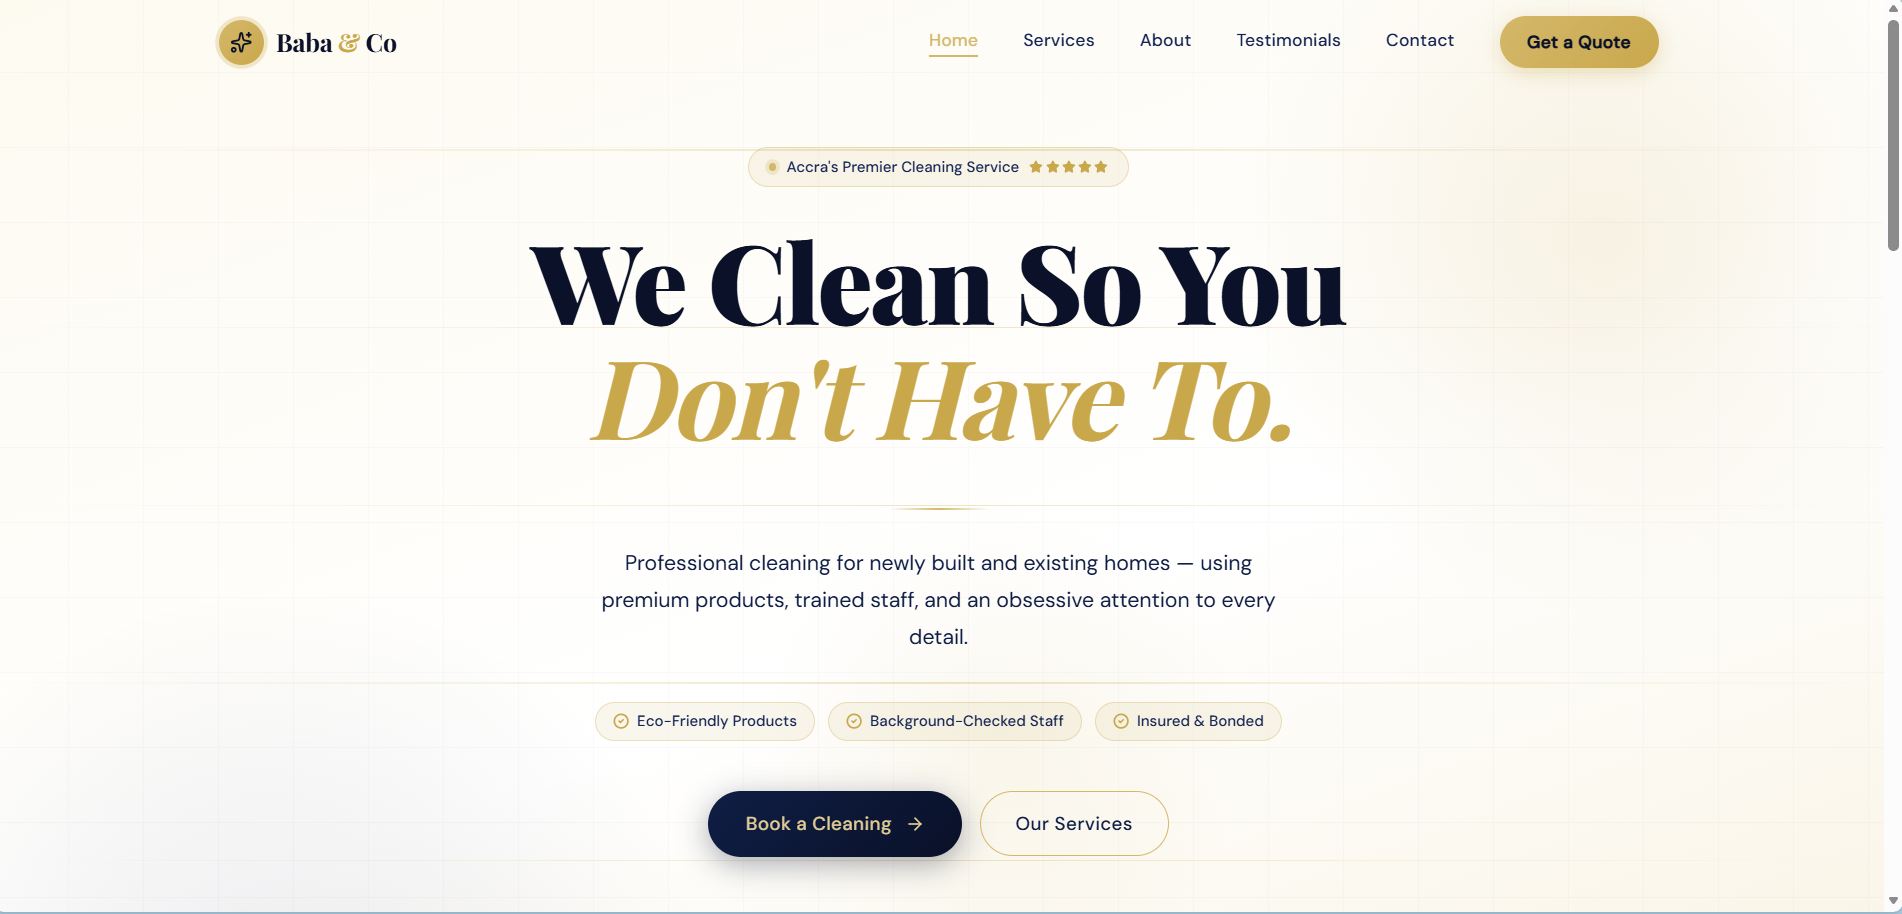
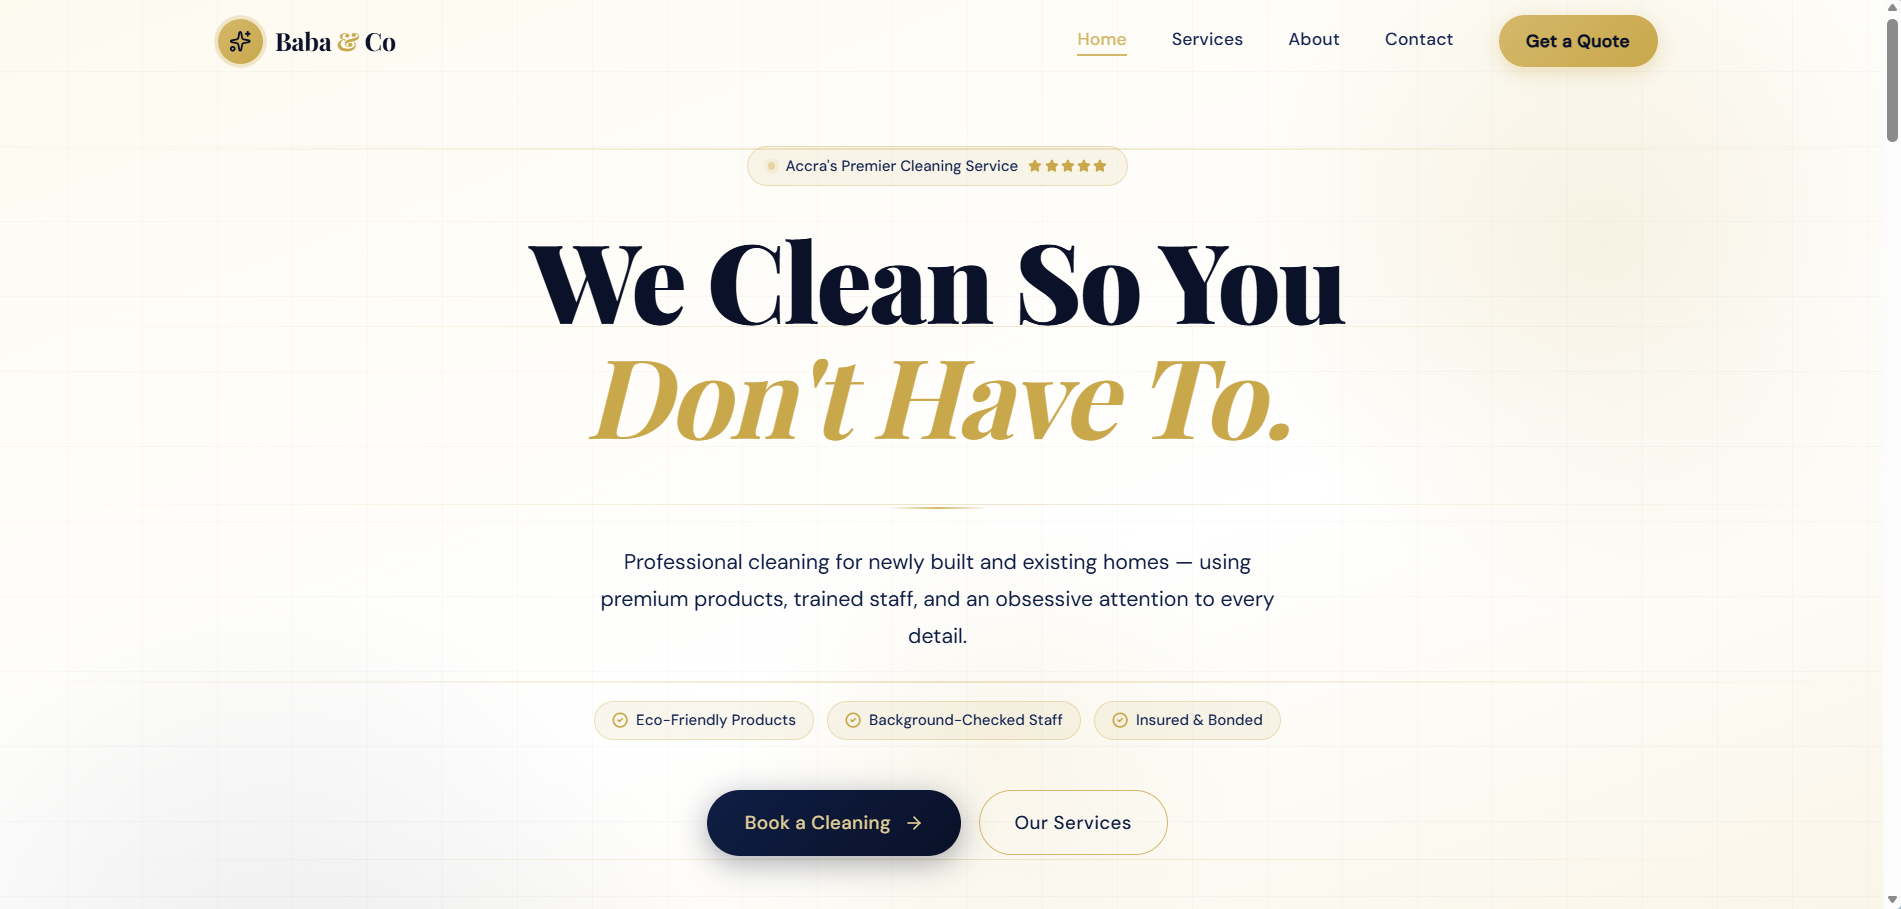
Add new caseStudy for new project(cleaning-agency) and update new hero image in babacocasestudy

diff --git a/src/case-studies/BabaCoCaseStudy.jsx b/src/case-studies/BabaCoCaseStudy.jsx
@@ -1,0 +1,134 @@
+import CaseStudyTemplate from "../components/CaseStudyTemplate";
+
+const data = {
+  meta: {
+    title: "Baba & Co Cleaning Agency",
+    titleLine1: "Baba & Co",
+    titleLine2: "Cleaning Agency",
+    image: "/images/project-2.png",
+    summary:
+      "A full production website for a premium cleaning agency — React SPA with multi-page routing, a fully validated booking system powered by EmailJS, and a polished design system built from scratch in vanilla CSS.",
+    stats: [
+      { label: "Frontend",    value: "React + Vite" },
+      { label: "Routing",     value: "React Router v6" },
+      { label: "Animations",  value: "Framer Motion" },
+      { label: "Backend",     value: "EmailJS (serverless)" },
+    ],
+  },
+
+  overview: {
+    problem:
+      "The client needed a professional online presence that felt premium — not a template. The business model requires a site-visit before pricing, so the booking flow had to communicate that clearly without losing conversion. It also needed to work seamlessly across all devices without a backend to maintain.",
+    goal:
+      "Design and build a multi-page React site that matches a luxury cleaning brand — navy and gold design system, Playfair Display + DM Sans typography — with a real booking flow that captures client details via EmailJS and routes them directly to the business owner's inbox.",
+    phases: [
+      { phase: "Phase 1", title: "Design System & CSS Architecture", desc: "Established CSS custom properties for the navy/gold palette, typography scale, spacing tokens, and border-radius system. All components built with vanilla CSS — no utility framework." },
+      { phase: "Phase 2", title: "Home Page & Component Library", desc: "Built Hero, Services grid, Why Us, Testimonials carousel, and CTA banner as standalone components. Framer Motion scroll animations and staggered reveals throughout." },
+      { phase: "Phase 3", title: "Multi-page Routing", desc: "Migrated from a single-page anchor scroll to React Router v6. Navbar rebuilt with useLocation and useNavigate to handle both page transitions and anchor-scroll fallbacks." },
+      { phase: "Phase 4", title: "Services & Booking System", desc: "Full ServicesPage with six expandable service detail sections, FAQs, and a booking modal. EmailJS integrated for serverless form submission — no backend required." },
+      { phase: "Phase 5", title: "About, Contact & Footer", desc: "About page with company story, team section, values grid and timeline. Contact page with validated enquiry form. Footer with brand quote, quick links, service links, and social buttons." },
+    ],
+  },
+
+  techStack: {
+    groups: [
+      {
+        category: "Frontend", color: "sky",
+        items: [
+          { name: "React 18",           desc: "Component architecture with hooks for all state, side effects, and lifecycle management" },
+          { name: "Vite",               desc: "Dev server and build tool — fast HMR and optimised production bundles" },
+          { name: "React Router v6",    desc: "Client-side routing with programmatic navigation, location awareness, and anchor-scroll coordination" },
+          { name: "Framer Motion",      desc: "Page entry animations, scroll-triggered reveals, staggered card entrances, and the booking modal overlay" },
+          { name: "Vanilla CSS",        desc: "Custom design system built with CSS custom properties — full control over every detail without a utility framework" },
+        ],
+      },
+      {
+        category: "Integrations", color: "emerald",
+        items: [
+          { name: "EmailJS",            desc: "Serverless email delivery — booking requests and contact form submissions land in the client's inbox with zero backend" },
+          { name: "Lucide React",       desc: "Consistent icon system used across nav, service cards, form fields, and trust badges" },
+          { name: "Google Fonts",       desc: "Playfair Display (serif headings) and DM Sans (body) — loaded via CSS @import for the brand's luxury feel" },
+        ],
+      },
+      {
+        category: "Architecture", color: "amber",
+        items: [
+          { name: "CSS Custom Properties", desc: "Full design token system: 6 navy shades, 6 gold shades, 5 radius values, two font stacks — all in :root" },
+          { name: "Component Composition", desc: "Shared components (BookingModal, Navbar, Footer) used across all pages — single source of truth" },
+          { name: "Serverless Form Layer", desc: "EmailJS removes the need for any server. Booking data is validated client-side then delivered as a formatted email" },
+        ],
+      },
+    ],
+    architecture: [
+      { label: "Browser",    sub: "React + Vite",        icon: "devices",   color: "sky" },
+      { label: "→",          sub: "React Router",         icon: null },
+      { label: "Pages",      sub: "Home · Services · About · Contact", icon: "article", color: "emerald" },
+      { label: "→",          sub: "EmailJS SDK",           icon: null },
+      { label: "Inbox",      sub: "Client Email",          icon: "mail",     color: "amber" },
+    ],
+  },
+
+  challenges: [
+    {
+      title: "Booking Modal Drifting to Bottom-Right Corner",
+      problem:
+        "After integrating Framer Motion's AnimatePresence on the booking modal, it stopped centering and instead appeared pinned to the bottom-right of the screen — even though the CSS clearly had position: fixed, top: 50%, left: 50% with transform: translate(-50%, -50%).",
+      discovery:
+        "Framer Motion writes its own inline transform style to drive the animation (y: 40, scale: 0.97 on entry). This inline transform completely overrides the CSS transform: translate(-50%, -50%) that was doing the centering. The modal's centering transform gets clobbered before it can take effect, so the element sits at its natural position: top-left of the 50%/50% anchor — which is the bottom-right area of the screen.",
+      solution:
+        "Removed the transform-based centering entirely from .booking-modal. Instead, wrapped it in a .booking-modal-wrap — a fixed, full-viewport flex container that centers its child with align-items: center + justify-content: center. Framer Motion now only controls the child element's y and scale, with no conflict. The backdrop click-to-close behavior was preserved by keeping the backdrop as a separate fixed element underneath.",
+      tag: "Animation Bug", tagColor: "rose",
+    },
+    {
+      title: "Navbar Breaking on Anchor Links After Page Navigation",
+      problem:
+        "Clicking 'Testimonials' or 'Contact' from the Services or About pages would navigate back to the home page, but the scroll-to-anchor never triggered. The page loaded at the top and stayed there.",
+      discovery:
+        "The setTimeout(scrollIntoView, 300) approach assumed the target element would be in the DOM 300ms after navigate() was called. But React Router's navigation and component mounting isn't always that fast, especially on lower-end devices or when components have heavy initial renders. The element simply wasn't mounted yet when scrollIntoView fired.",
+      solution:
+        "Kept the setTimeout but made the delay more conservative (400ms) and added a null-check: document.querySelector(anchor)?.scrollIntoView(...). On slower devices this is still not perfectly reliable, so the proper long-term fix is a useEffect in the home page that watches for a location.state.scrollTo value passed via navigate(), then scrolls after mount. Documented this as a known improvement.",
+      tag: "Routing", tagColor: "sky",
+    },
+    {
+      title: "CSS services-label Selector Conflict",
+      problem:
+        "The .services-label class was defined twice in the CSS file with different display values — once as display: inline-block (from the original homepage) and once as display: inline-flex (for the ServicesPage redesign with the line dividers). On the Services page, the lines weren't appearing.",
+      discovery:
+        "The second definition in the file was winning due to cascade order, but the inline-flex version expected two .services-label-line child elements inside the label. The homepage version didn't have those children, so there was no visual bug there. But on the Services page, the label was getting the inline-block style from higher up in the file, collapsing the flex layout.",
+      solution:
+        "Audited the full CSS file for duplicate class definitions. Removed the redundant inline-block version and kept only the inline-flex one, which worked correctly for both usages. Added a comment block marking the 'Services Page overrides' section to prevent this category of conflict on future edits.",
+      tag: "CSS Cascade", tagColor: "amber",
+    },
+  ],
+
+  features: [
+    { icon: "calendar_month",  title: "Smart Booking Modal",       desc: "Full booking form with client-side validation, service pre-selection when clicking 'Book This Service' on a specific card, EmailJS delivery, and a success/error state flow." },
+    { icon: "layers",          title: "Six In-Depth Service Pages", desc: "Each service has a full written breakdown, what's included checklist, ideal-for tags, duration, expandable FAQs, and a sticky aside panel — all on a single scrollable Services page." },
+    { icon: "route",           title: "Multi-page SPA Routing",     desc: "React Router v6 with page-level routes for Home, Services, About, and Contact. Anchor scroll links (Testimonials, Contact) work correctly from any page." },
+    { icon: "auto_awesome",    title: "Scroll-Triggered Animations", desc: "Framer Motion powers staggered card reveals, fade-up section entries, and the process step sequence. All animations respect viewport entry and only fire once." },
+    { icon: "mail",            title: "Contact & Booking via Email", desc: "Two separate EmailJS templates — one for booking requests (8 fields), one for general contact. Both include validation, loading state, and formatted email delivery." },
+    { icon: "design_services", title: "Custom CSS Design System",   desc: "Navy 950–500 and gold 50–500 scales, two font families, five radius tokens, and reusable component classes — zero dependency on Tailwind or any CSS framework." },
+  ],
+
+  learnings: [
+    "CSS transforms are not composable with Framer Motion's inline styles. Any element Framer animates with a transform-based motion value must be centered by layout (flexbox, grid) rather than by its own transform — or the centering will be overwritten during the animation lifecycle.",
+    "React Router's navigate() is not synchronous with DOM mounting. If you call scrollIntoView immediately after navigation, the target element may not exist yet. A useEffect on the landing page that watches location.state is the correct pattern — setTimeout is a workaround, not a fix.",
+    "Vanilla CSS at scale needs the same discipline as a component framework. Duplicate class names, cascade conflicts, and specificity wars are real. A clear file structure — reset, variables, layout, components, pages, responsive — prevents the majority of bugs.",
+    "Serverless integrations like EmailJS are excellent for small business sites. No server to maintain, no CORS to configure, no costs. The trade-off is that all logic is client-visible — which is acceptable for a contact form, but not for anything requiring real security.",
+    "Writing real copy matters as much as the code. The service descriptions, FAQ answers, and booking flow messaging were drafted carefully to reflect the brand's premium positioning. A polished UI with generic placeholder text still reads as unfinished.",
+  ],
+
+  cta: {
+    heading: "Want to see it live?",
+    sub: "The full site is deployed and the booking system is live.",
+    links: [
+      { label: "View Live Site",   href: "https://cleaning-agency-pi.vercel.app/", icon: "open_in_new", external: true,  primary: true },
+      { label: "View Source Code", href: "https://github.com/kobby1919/cleaning-agency", img: "/images/github_dark.svg", external: true, primary: false },
+      { label: "Get In Touch",     href: "/contact", icon: "mail", external: false },
+    ],
+  },
+};
+
+export default function BabaCoCaseStudy() {
+  return <CaseStudyTemplate data={data} />;
+}

diff --git a/src/pages/CaseStudy.jsx b/src/pages/CaseStudy.jsx
@@ -1,8 +1,10 @@
 import { useParams } from "react-router-dom";
 import PortfolioCaseStudy from "../case-studies/PortfolioCaseStudy";
+import BabaCoCaseStudy from "../case-studies/BabaCoCaseStudy";
 
 const caseStudies = {
   "personal-portfolio": <PortfolioCaseStudy />,
+  "cleaning-agency": <BabaCoCaseStudy />,
 };
 
 export default function CaseStudy() {
